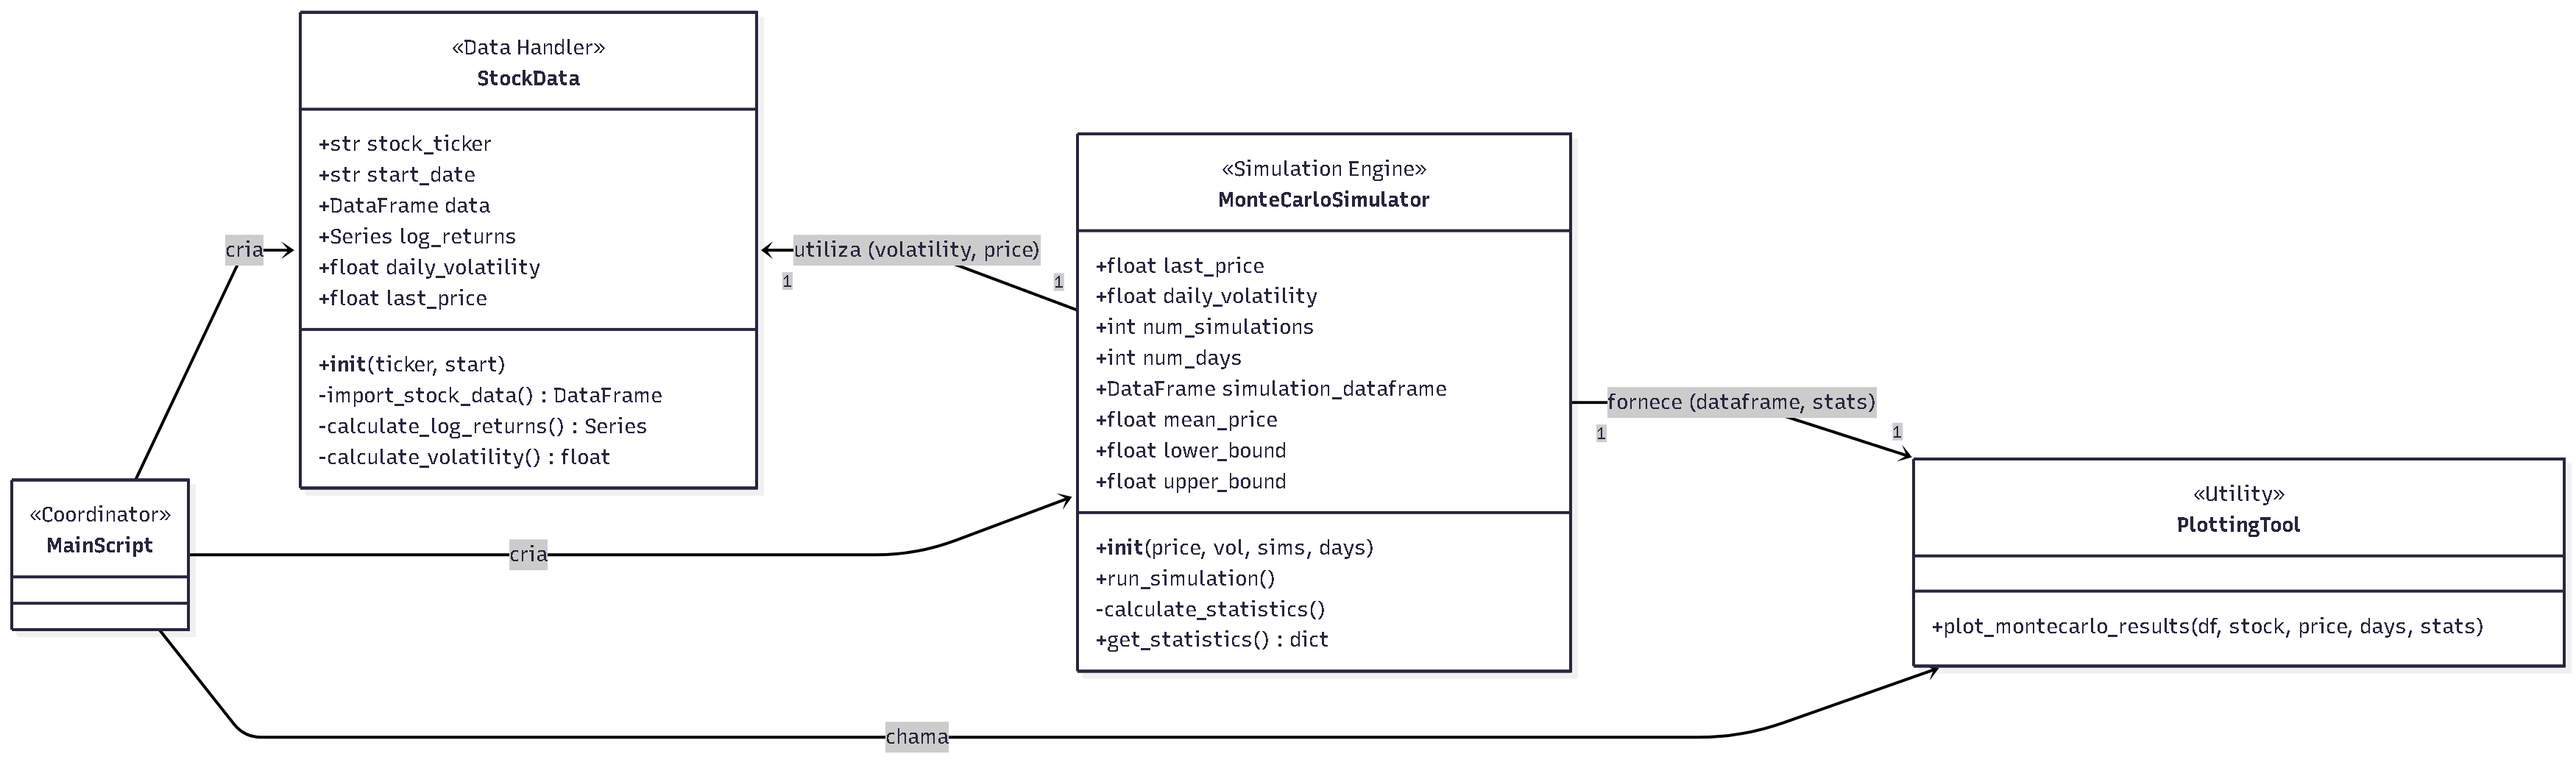
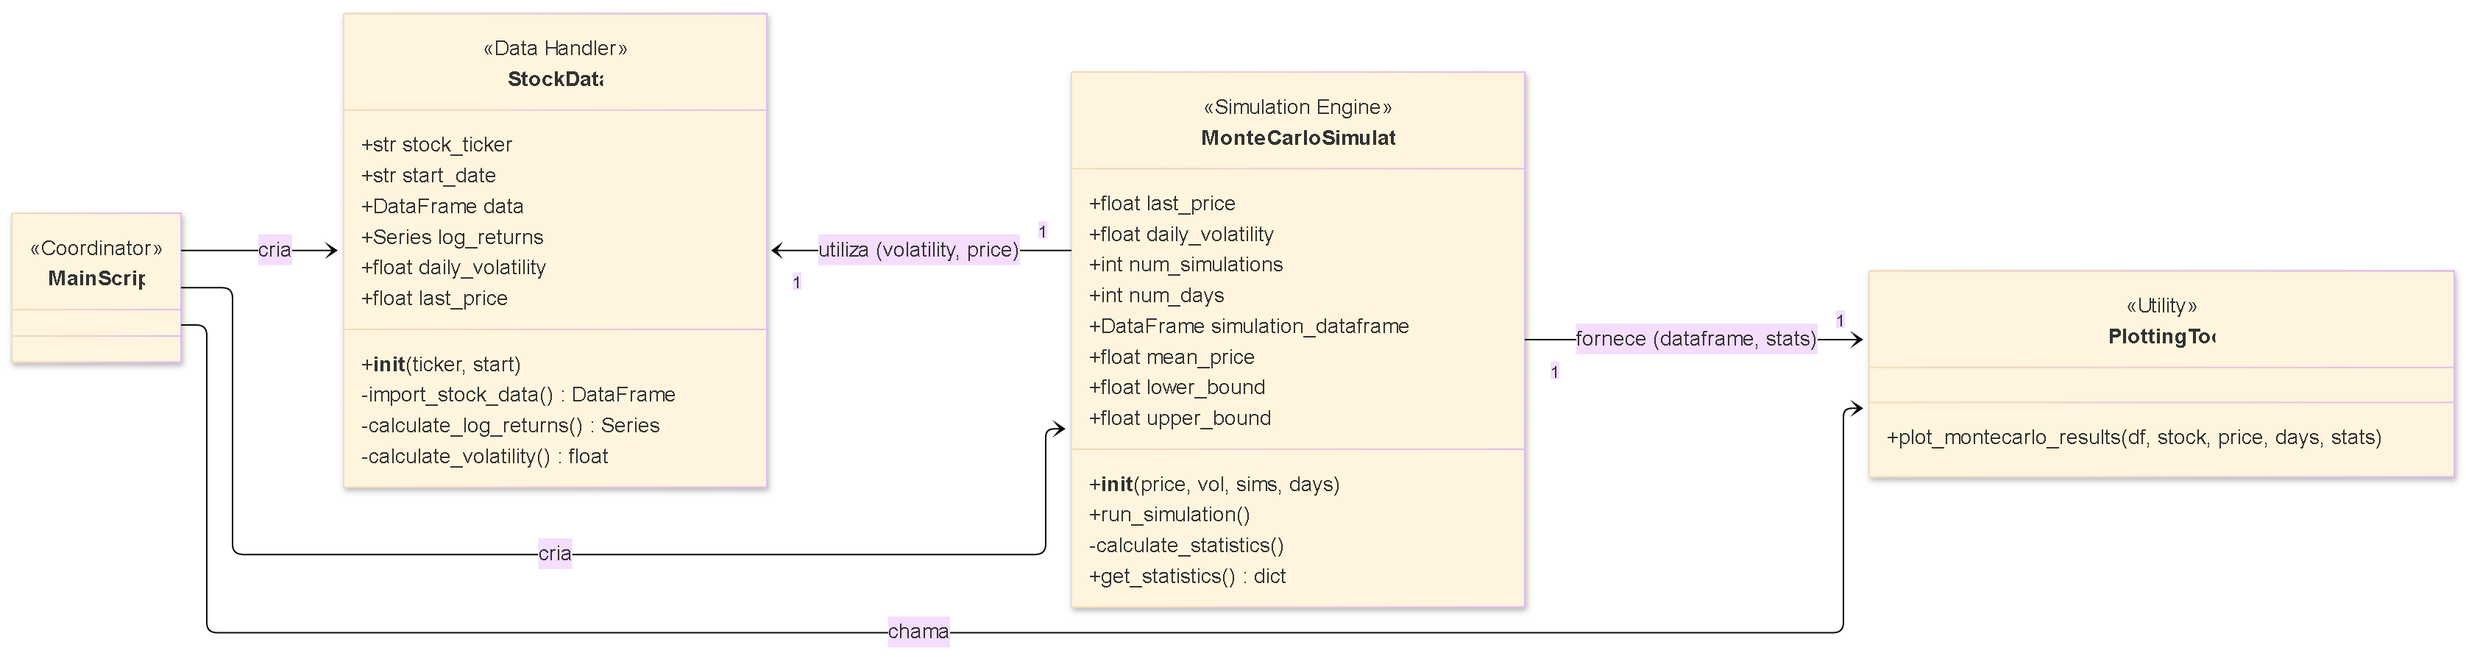
melhorado o gráfico final, com novas informações, adicionado o valor real para o dia atual.

diff --git a/model/ploting_tool.py b/model/ploting_tool.py
@@ -1,10 +1,9 @@
-# plotting_tool.py (Versão Combinada)
-
+import pandas as pd
 import matplotlib.pyplot as plt
 import numpy as np
 import seaborn as sns
-# Importar se necessário para tipagem, embora as funções não usem diretamente
-import pandas as pd
+import locale
+locale.setlocale(locale.LC_ALL, 'pt_BR.UTF-8')
 
 
 class PlottingTool:
@@ -35,9 +34,9 @@ class PlottingTool:
         plt.grid(True)
         plt.show()
 
-    # NOVO MÉTODO COMBINADO: Plota Simulação (Caminhos) e Histograma (Distribuição Final)
+    # Plota Simulação (Caminhos) e Histograma (Distribuição Final)
     @staticmethod
-    def plot_montecarlo_results(simulation_dataframe, stock, last_price, num_days, stats):
+    def plot_montecarlo_results(simulation_dataframe, stock, last_price, today_price, num_days, stats):
 
         # Cria uma figura com dois subplots: 1 linha, 2 colunas
         fig, (ax1, ax2) = plt.subplots(1, 2, figsize=(16, 6))
@@ -61,11 +60,30 @@ class PlottingTool:
         lower_bound = stats["lower_bound"]
         upper_bound = stats["upper_bound"]
 
-        textstr = '\n'.join((
-            f"Valor inicial {last_price:.2f}",
-            f"Valor esperado em {num_days} dias: {mean_price:.2f}",
-            f"Intervalo de 95%: ({lower_bound:.2f}  -  {upper_bound:.2f})"
-        ))
+        formatted_last_price = locale.format_string(
+            "%.2f", last_price, grouping=True)
+        formatted_today_price = locale.format_string(
+            "%.2f", today_price, grouping=True)
+        formatted_mean_price = locale.format_string(
+            "%.2f", mean_price, grouping=True)
+        formatted_lower_bound = locale.format_string(
+            "%.2f", lower_bound, grouping=True)
+        formatted_upper_bound = locale.format_string(
+            "%.2f", upper_bound, grouping=True)
+
+        if today_price is None:
+            textstr = '\n'.join((
+                f"Valor inicial {formatted_last_price}",
+                f"Valor esperado em {num_days} dias: {formatted_mean_price}",
+                f"Intervalo de 95%: ({formatted_lower_bound} - {formatted_upper_bound})"
+            ))
+        else:
+            textstr = '\n'.join((
+                f"Valor inicial {formatted_last_price}",
+                f"Valor esperado em {num_days} dias: {formatted_mean_price}",
+                f"Intervalo de 95%: ({formatted_lower_bound} - {formatted_upper_bound})",
+                f"Valor real no dia de hoje: {formatted_today_price}"
+            ))
 
         ax1.text(
             0.05, 0.95, textstr,
@@ -93,7 +111,8 @@ class PlottingTool:
 
         # Linha da Média
         ax2.axvline(mean_price, color='g', linestyle='--', linewidth=2,
-                    label=f"Média: {mean_price:.2f}")
+                    label=f"Média: {locale.format_string(
+                        "%.2f", mean_price, grouping=True)}")
 
         # Linhas do Intervalo de Segurança de 95%
         ax2.axvline(lower_bound, color='r', linestyle='-', linewidth=2,

diff --git a/model/StockData.py b/model/StockData.py
@@ -15,7 +15,8 @@ class StockData:
         self.data = self._import_stock_data()
         self.log_returns = self._calculate_log_returns()
         self.daily_volatility = self._calculate_volatility()
-        self.last_price = self.data['Close'].iloc[-6] if not self.data.empty else None
+        self.last_price = self.data['Close'].iloc[-5] if not self.data.empty else None
+        self.today_price = self.data['Close'].iloc[-1] if not self.data.empty else None
 
     def _import_stock_data(self):
         """
@@ -59,8 +60,9 @@ class MonteCarloSimulator:
     Realiza a simulação de Monte Carlo para o preço da ação.
     """
 
-    def __init__(self, last_price, daily_volatility, num_simulations, num_days):
+    def __init__(self, last_price, today_price, daily_volatility, num_simulations, num_days):
         self.last_price = last_price
+        self.today_price = today_price
         self.daily_volatility = daily_volatility
         self.num_simulations = num_simulations
         self.num_days = num_days

diff --git a/model/main.py b/model/main.py
@@ -4,7 +4,9 @@ from StockData import StockData, MonteCarloSimulator
 from ploting_tool import PlottingTool
 
 # --- Parâmetros de Configuração ---
-stock_ticker = "BBAS3.SA"
+# stock_ticker = "BBAS3.SA"  # Banco do Brasil
+# stock_ticker = "^BVSP"  # IBOVESPA
+stock_ticker = "PETR4.SA"  # Petrobrás
 start_date = '2025-1-1'
 num_simulations = 100000
 num_days = 7
@@ -22,6 +24,7 @@ def main_oo():
     # 2. Executar a simulação de Monte Carlo
     mc_simulator = MonteCarloSimulator(
         last_price=stock_data_handler.last_price,
+        today_price=stock_data_handler.today_price,
         daily_volatility=stock_data_handler.daily_volatility,
         num_simulations=num_simulations,
         num_days=num_days
@@ -38,6 +41,7 @@ def main_oo():
         mc_simulator.simulation_dataframe,
         stock_ticker,
         stock_data_handler.last_price,
+        stock_data_handler.today_price,
         num_days,
         simulation_stats
     )
